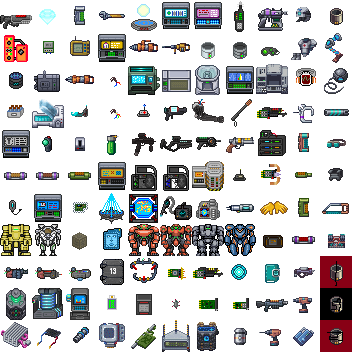
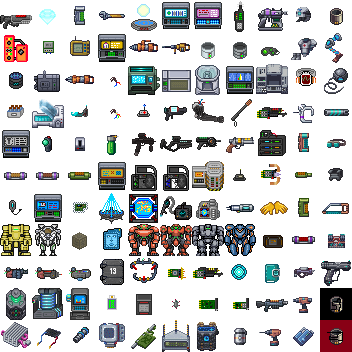
SST fix and balance

Changed region(s): [[0.9062, 0.7188, 1.0, 0.8438]]

diff --git a/nano/css/shared.css b/nano/css/shared.css
@@ -899,6 +899,8 @@ img.sciTechTreeIconToolTip {
 .icon-stunrevolver { background-position: -224px -128px; }
 .icon-armor { background-position: -288px -0px; }
 .icon-void_suit { background-position: -288px -32px; }
+.icon-abnegate { background-position: -320px -256px; }
+
 
 .icon-supercell { background-position: 0px -160px; }
 .icon-hypercell { background-position: -32px -160px; }
